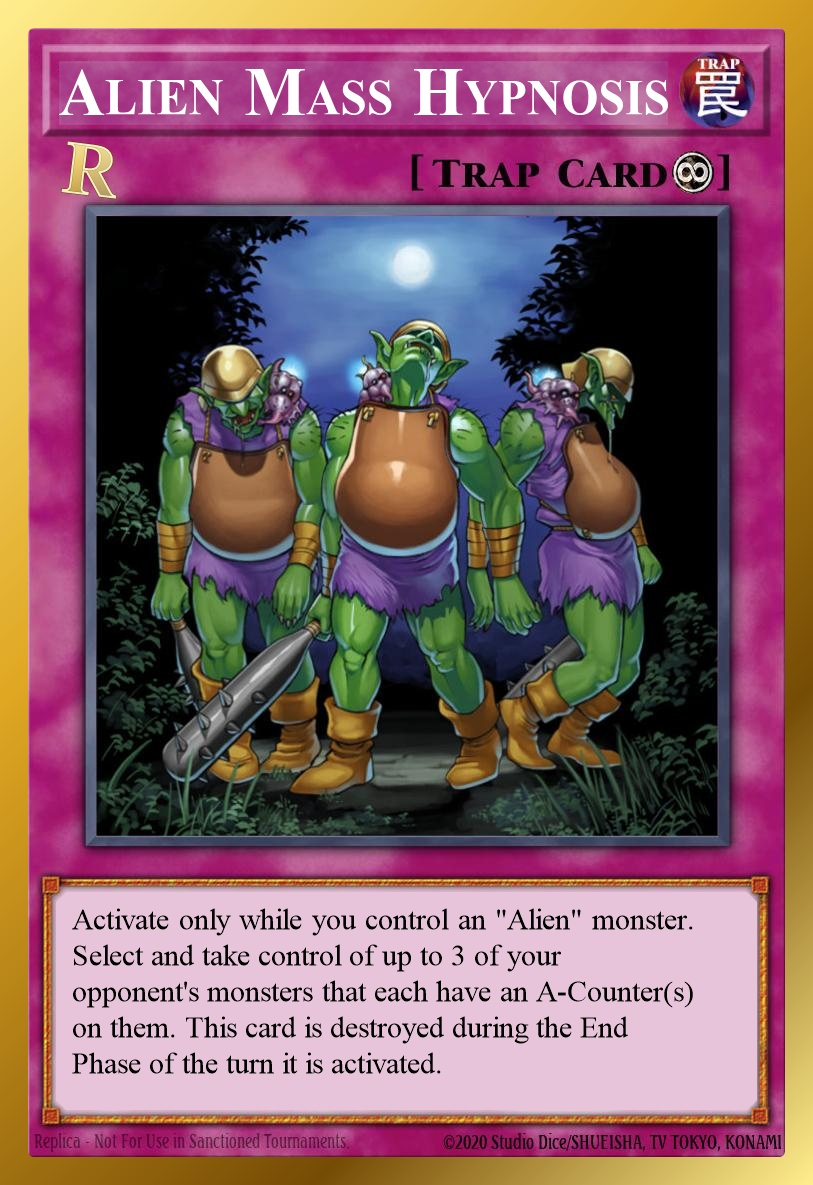
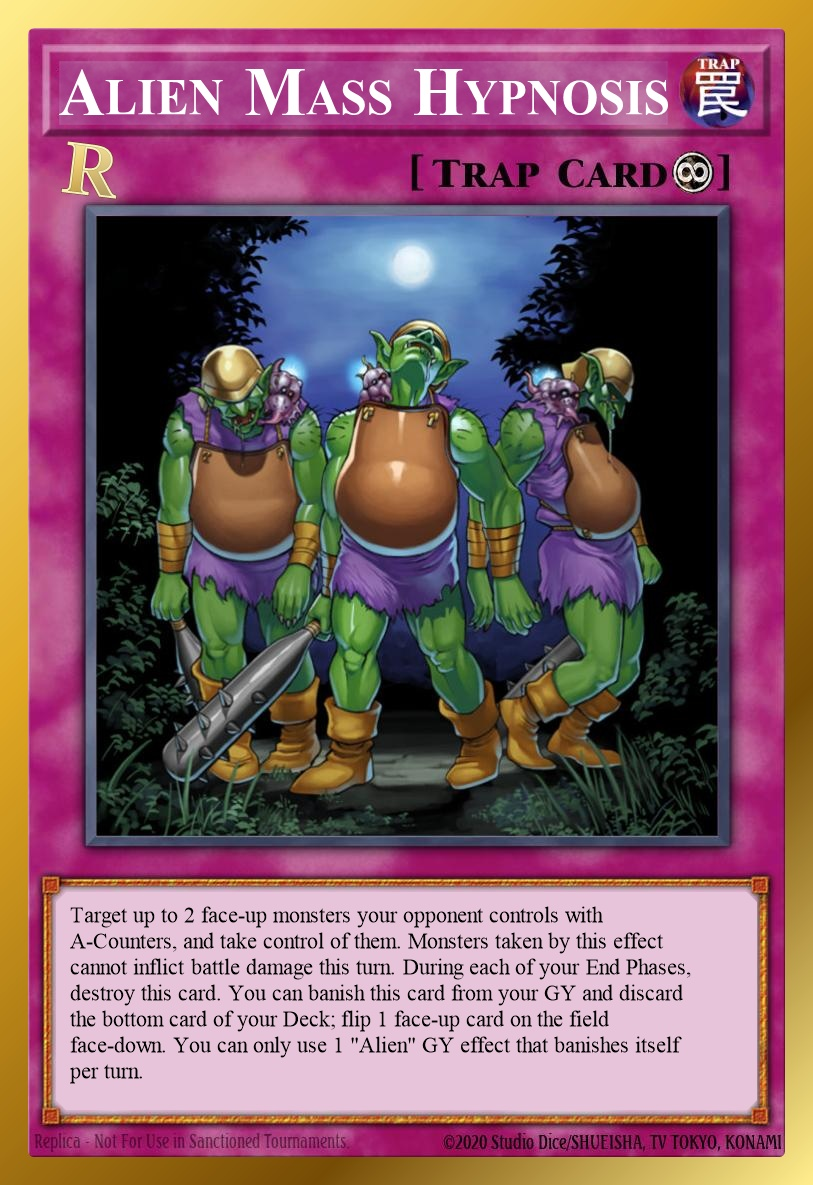
Rework Alien Mass Hypnosis

Changed region(s): [[0.0923, 0.7494, 0.861, 0.9055]]

diff --git a/Redux/scripts/build-cards-cdb.js b/Redux/scripts/build-cards-cdb.js
@@ -266,8 +266,17 @@ module.exports = function buildCardsDb({ reduxRoot }) {
       'Add 1 "Alien" monster from your Deck to your hand',
       24082387,
     );
+  const massHypnosisTextResult = db
+    .prepare("UPDATE texts SET name = ?, desc = ?, str1 = ?, str2 = ?, str3 = ? WHERE id = ?")
+    .run(
+      "Alien Mass Hypnosis",
+      'Target up to 2 face-up monsters your opponent controls with A-Counters, and take control of them. Monsters taken by this effect cannot inflict battle damage this turn. During each of your End Phases, destroy this card. You can banish this card from your GY and discard the bottom card of your Deck; flip 1 face-up card on the field face-down. You can only use 1 "Alien" GY effect that banishes itself per turn.',
+      "During each of your End Phases, destroy this card",
+      "Monsters taken cannot inflict battle damage this turn",
+      "Flip 1 face-up card on the field face-down",
+      21768554,
+    );
   const alienNamedSpellTrapTextResults = [
-    [21768554, "Alien Mass Hypnosis"],
     [53291093, "Alien Mysterious Triangle"],
     [60946968, 'Alien Otherworld - The "A" Zone'],
     [39163598, "Alien Planet Pollutant Virus"],
@@ -626,6 +635,9 @@ module.exports = function buildCardsDb({ reduxRoot }) {
   }
   if (Number(cropCirclesTextResult.changes) !== 1) {
     throw new Error("Expected to update Crop Circles text once");
+  }
+  if (Number(massHypnosisTextResult.changes) !== 1) {
+    throw new Error("Expected to update Mass Hypnosis text once");
   }
   if (alienNamedSpellTrapTextResults.some((result) => Number(result.changes) !== 1)) {
     throw new Error("Expected to update Alien Spell/Trap names once each");

diff --git a/README.md b/README.md
@@ -81,7 +81,7 @@ Redux Limits: `0` = forbidden; `1` = limited; `2` = semi-limited; `3` = unlimite
 | `3` [Alien Dog](https://yugioh.fandom.com/wiki/Alien_Dog) | ⬆ Hand special summon while controlling Alien; once per turn 1 A-Counter on non-Alien card; Tuner |
 | `3` [Alien Grey](https://yugioh.fandom.com/wiki/Alien_Grey) | 🔄 Summon/flip trigger draws; shared Alien GY effect sends Spell/Trap from Deck |
 | `3` [Alien Hunter](https://yugioh.fandom.com/wiki/Alien_Hunter) | 🔄 Main Phase GY summon by bottom-decking Alien from hand and banishing 2 GY cards; hard once per turn; can draw and give A-Counter on non-Alien card |
-| `3` [Alien Mass Hypnosis](https://yugioh.fandom.com/wiki/Mass_Hypnosis) | 🔄 Counts as Alien |
+| `3` [Alien Mass Hypnosis](https://yugioh.fandom.com/wiki/Mass_Hypnosis) | 🔄 Counts as Alien; controls up to 2 A-Counter monsters; they deal no battle damage; shared Alien GY effect flips 1 card face-down |
 | `3` [Alien Mother](https://yugioh.fandom.com/wiki/Alien_Mother) | 🔄 Summons itself with A-Counters; steals battle-destroyed A-Counter monsters; protects itself |
 | `3` [Alien Mothership Muusik'I](https://yugioh.fandom.com/wiki/Flying_Saucer_Muusik%27i) | 🔄 Counts as Alien; discards to summon itself; banish from GY to summon or search Alien |
 | `3` [Alien Mysterious Triangle](https://yugioh.fandom.com/wiki/Mysterious_Triangle) | 🔄 Counts as Alien |

diff --git a/AGENTS.md b/AGENTS.md
@@ -64,6 +64,11 @@ For new Redux changes:
 In the `README.md` errata table, describe changes in short and simplistic summary phrases (easy language)
 consistent with the existing entries rather than full card-text wording.
 
+In errataed card effect text (`.cdb` desc fields), do not insert line breaks
+(`\n`). Write the effect as continuous prose. The only exceptions are bullet
+points of list-style effects (`●` lines) and cases where the user explicitly
+requests a line break.
+
 When changing a card, check whether the selected passcode has alternate-art or
 alias print rows in the relevant `.cdb`. Apply Redux name markers, text changes,
 type/stat/property changes, and needed image metadata fixes to every print row
